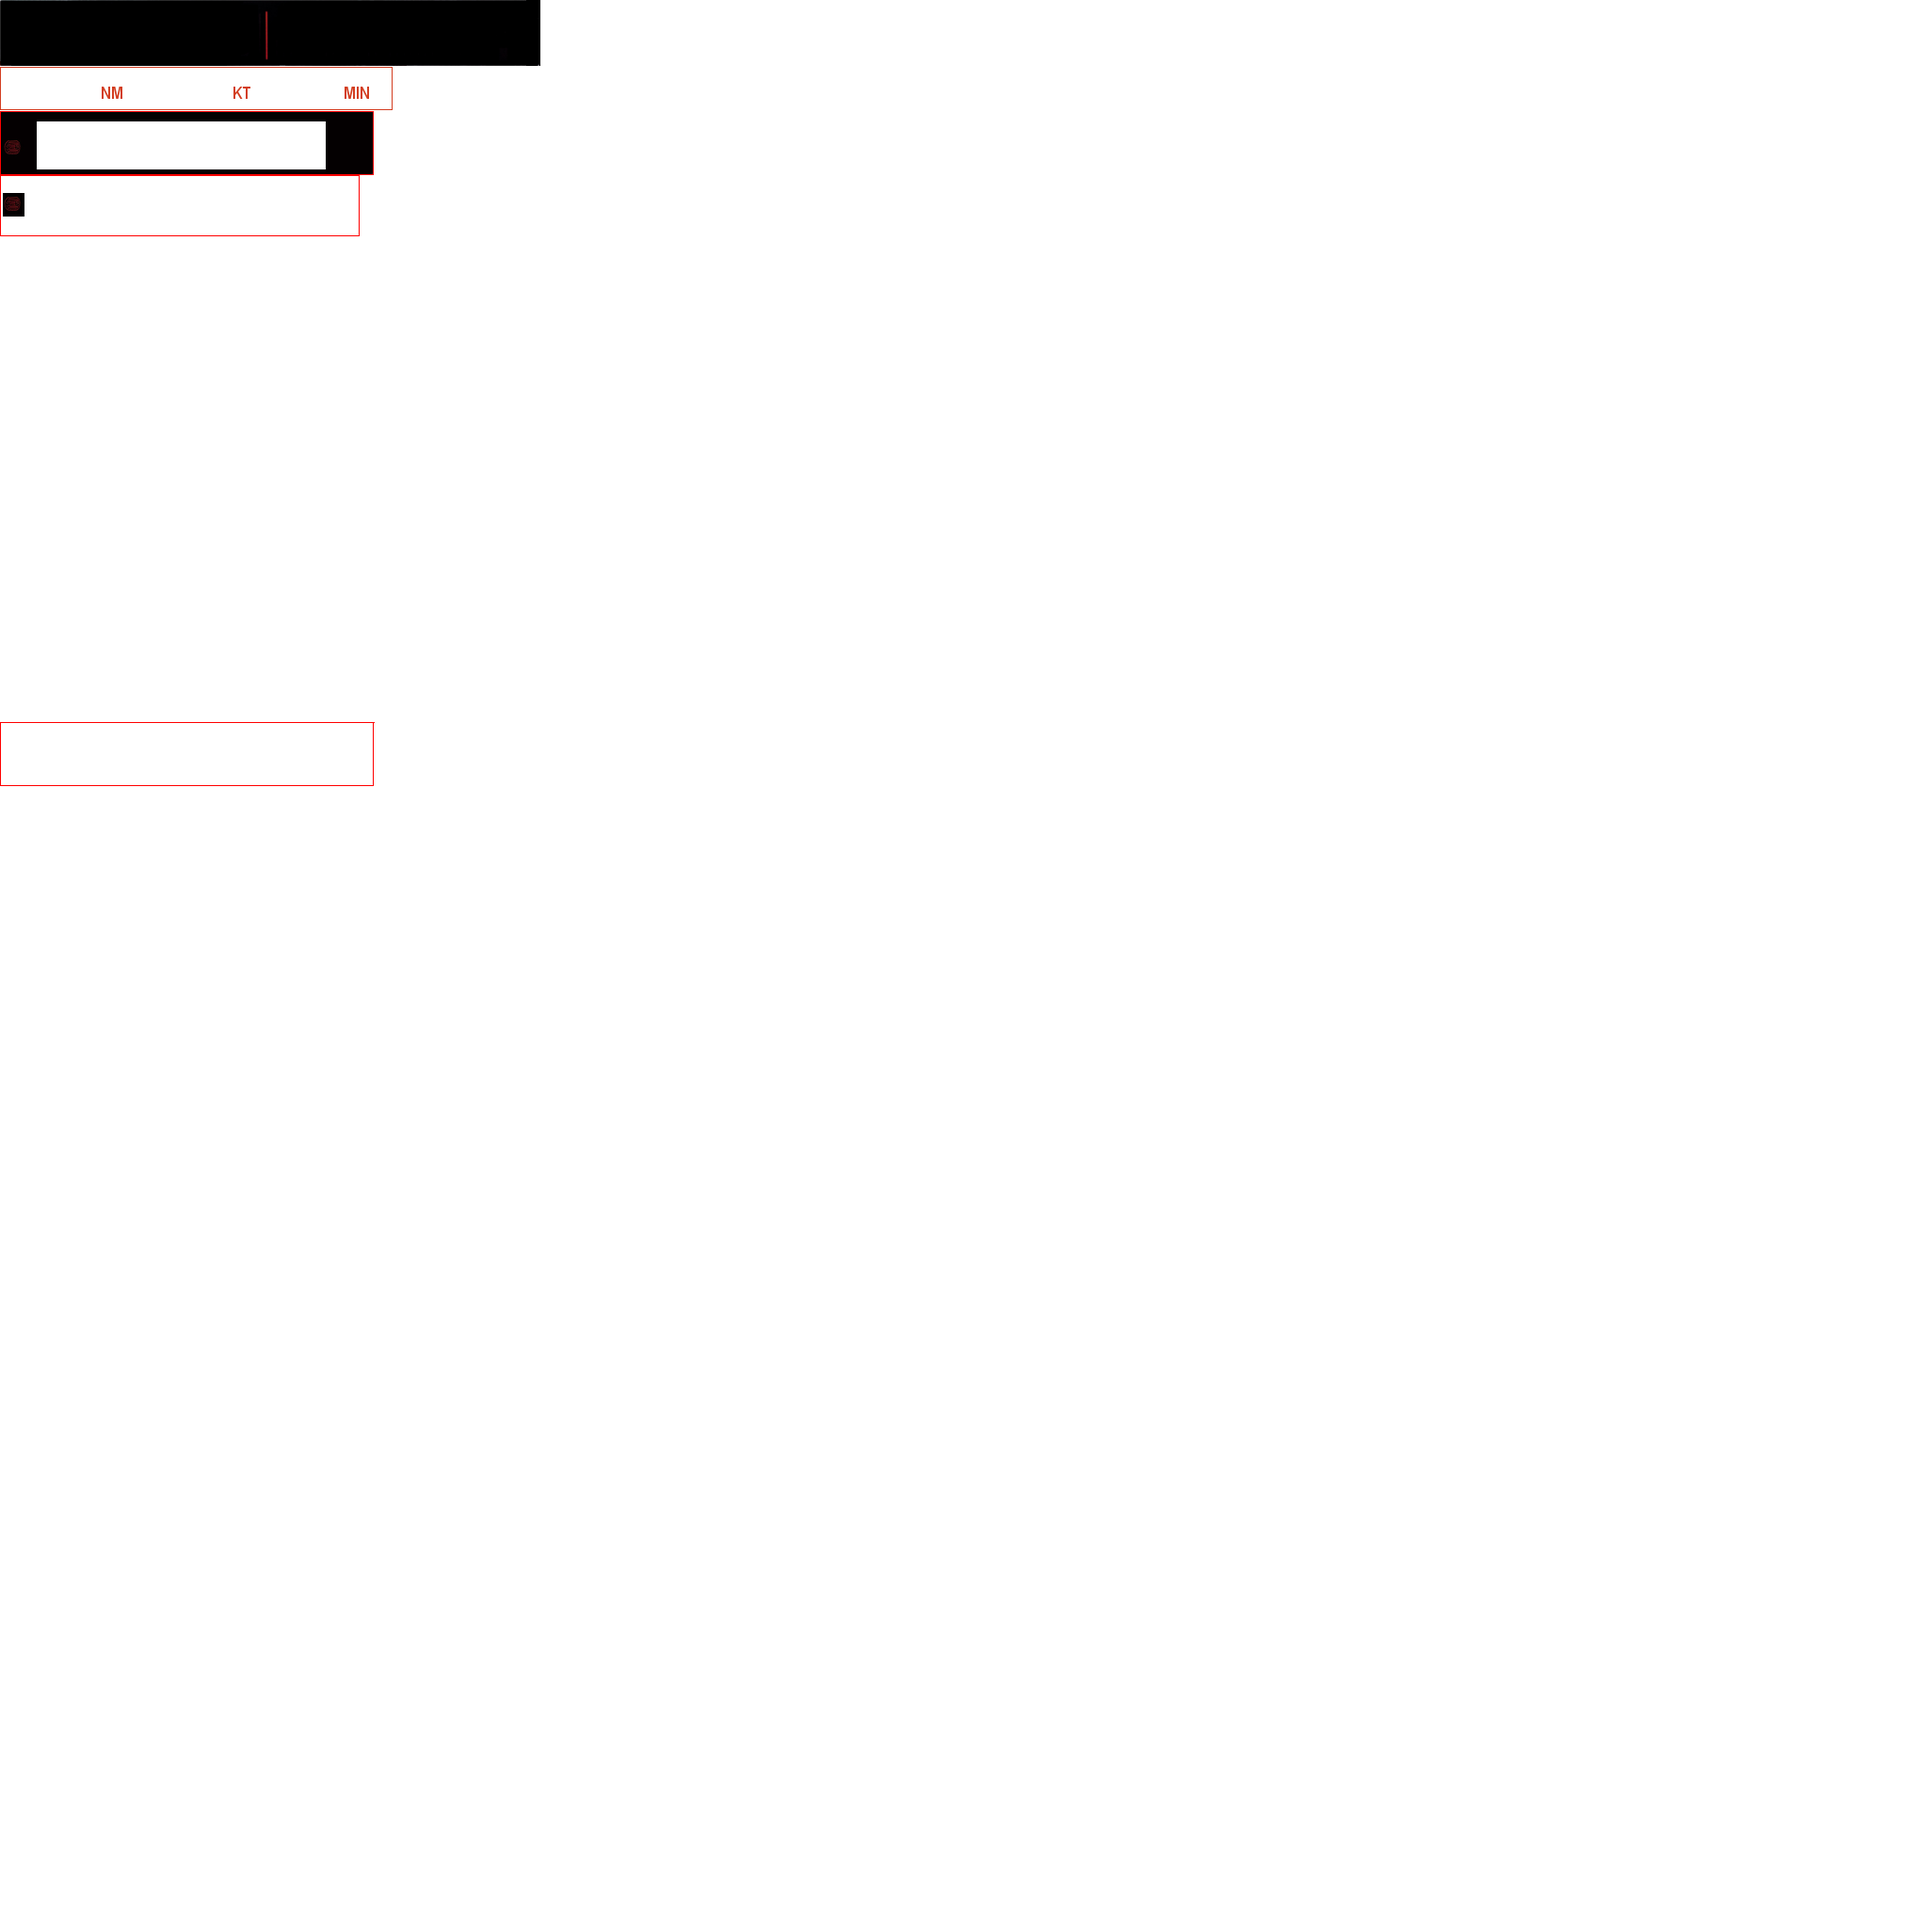
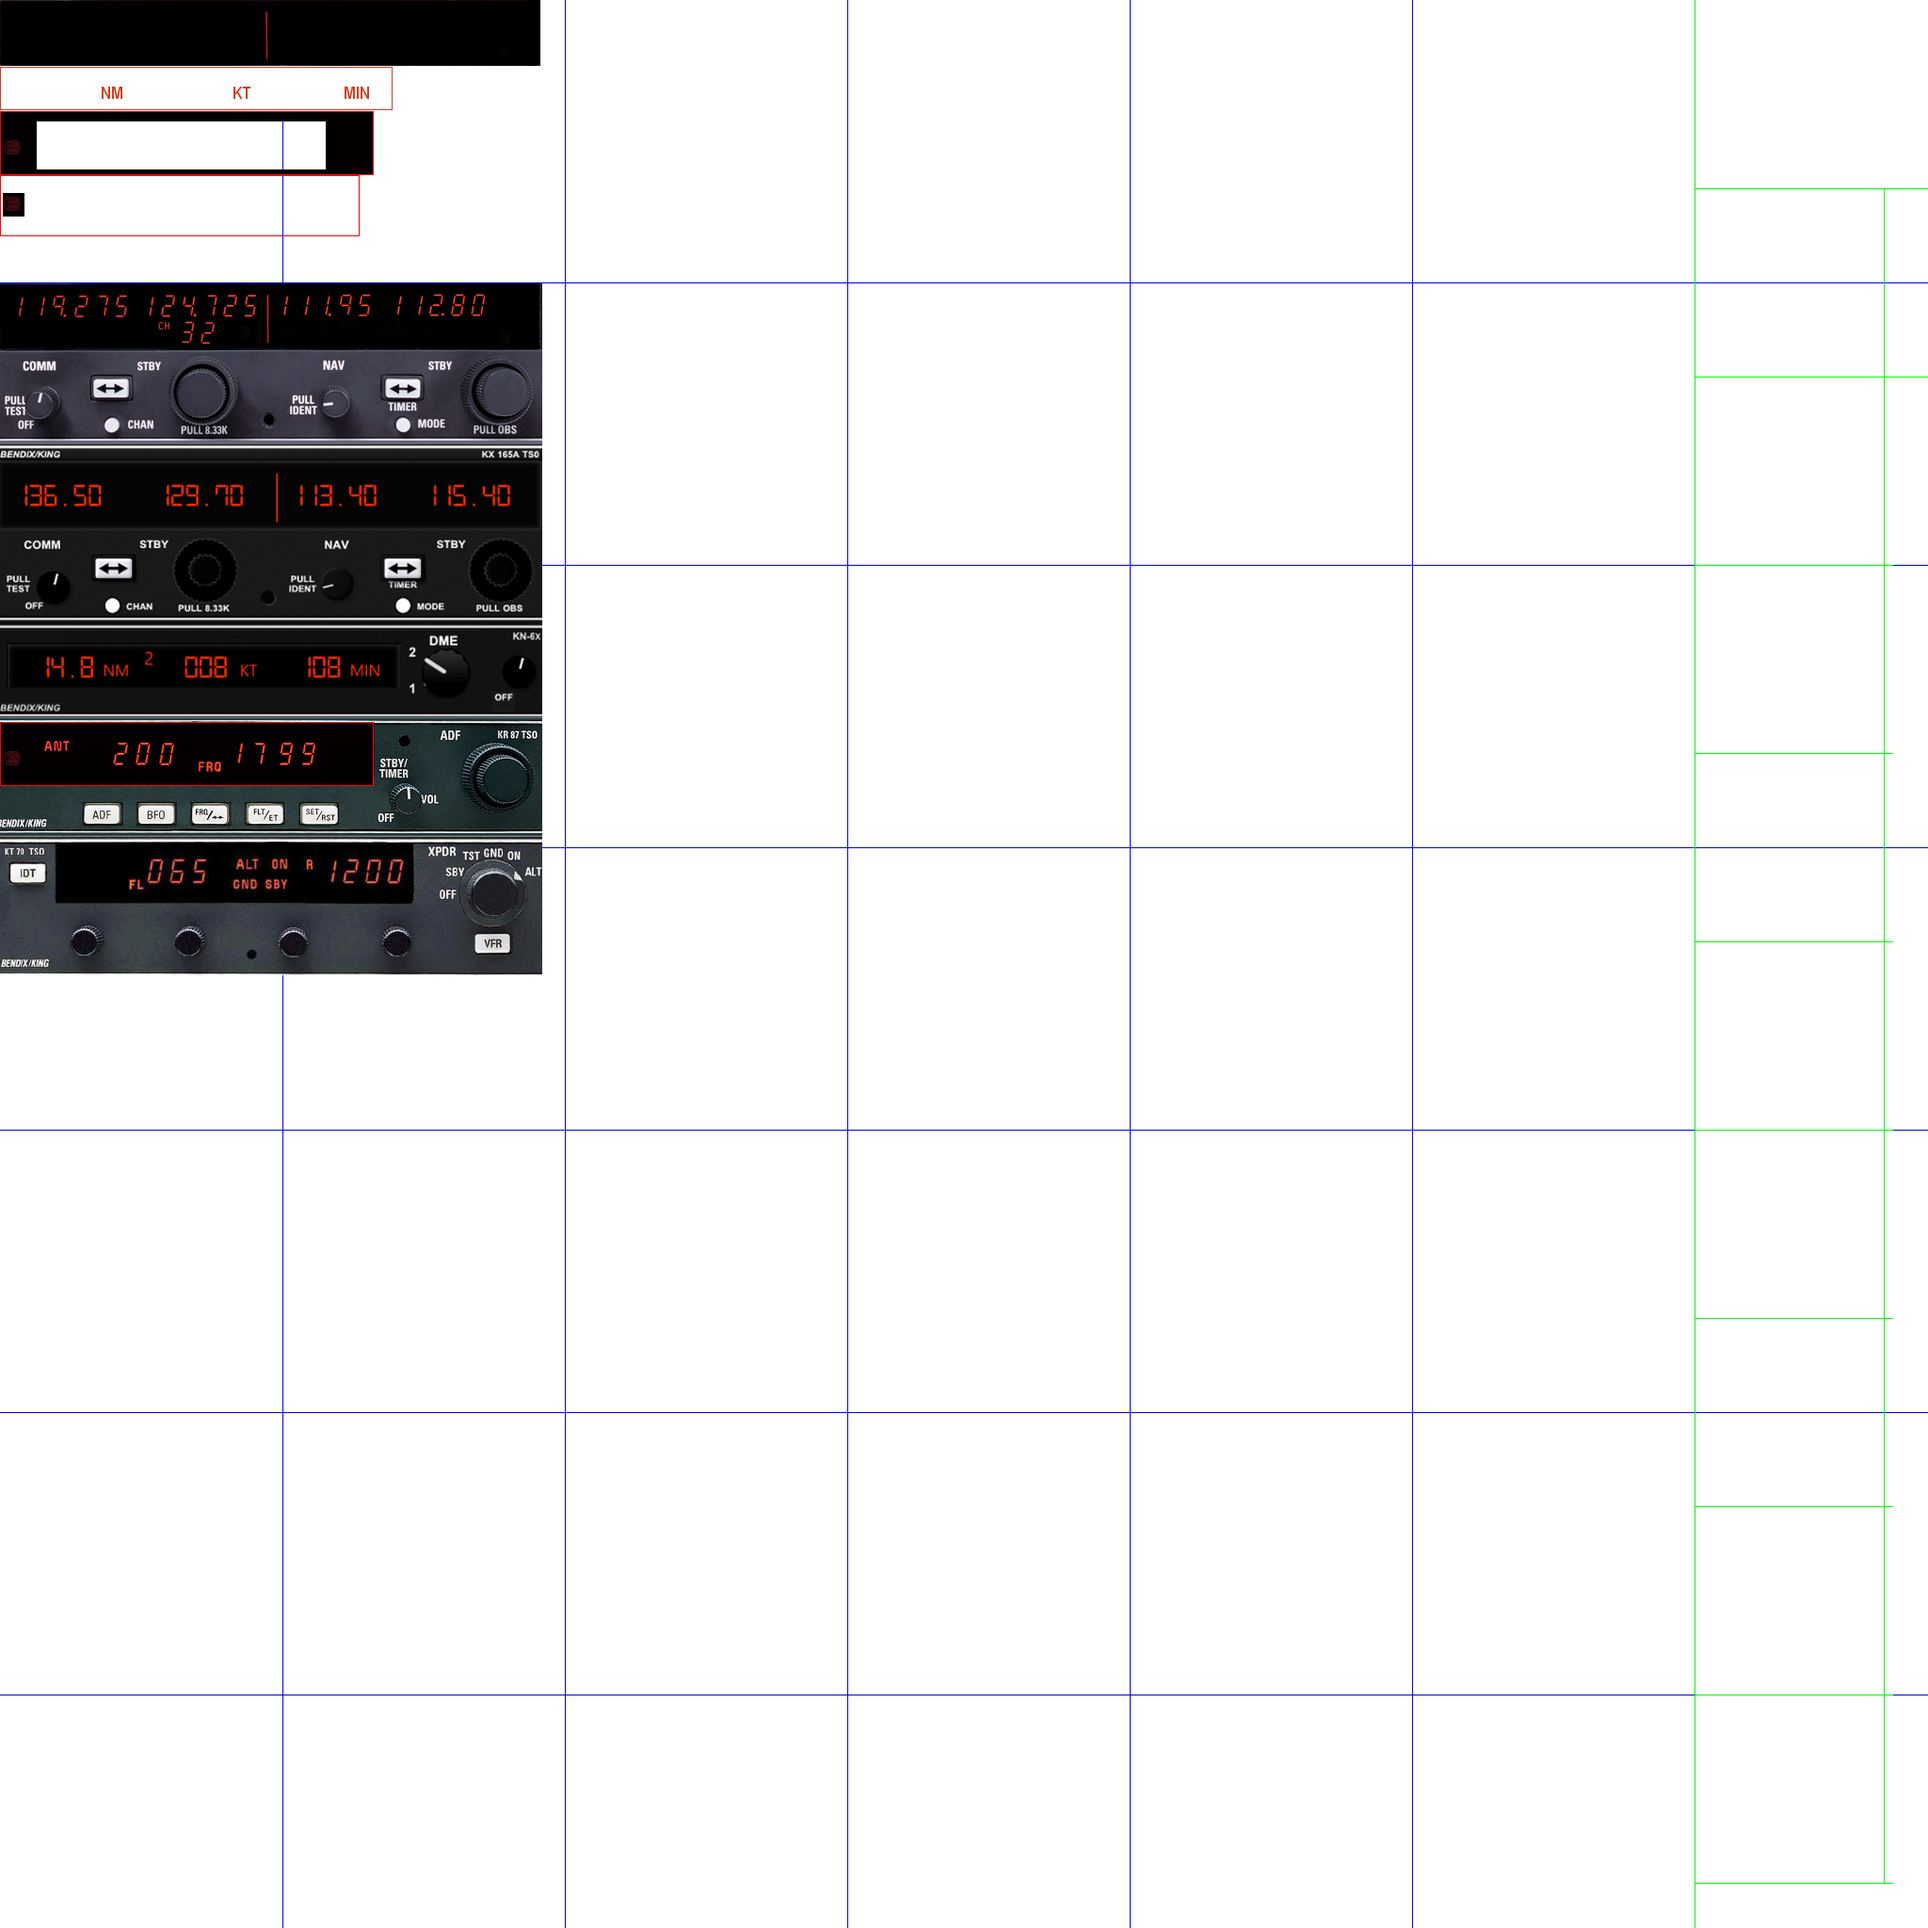
Final enhancements to XPDR and ADF

Changed region(s): [[0.0, 0.125, 0.2812, 0.5312]]

diff --git a/instruments/BendixKing_ADF_KR87.py b/instruments/BendixKing_ADF_KR87.py
@@ -30,10 +30,13 @@ class BK_ADF_KR87(graphics.Container):
 		
 		self.timer_mode = 0 #// 0 = inactive, 1 = flight time, 2 = elapsed time
 		
-		x_ADF_actFrequ 		= 81
-		x_ADF_sbyFrequ 		= 244
-		x_time_left			= x_ADF_sbyFrequ +200
-		x_time_right		= x_time_left + 45
+		x_ADF_actFrequ 		= 105
+		x_ADF_sbyFrequ 		= 285
+		x_ADF_ANT_indicators = 45
+		x_BFO_indicator 	= 177
+		x_FLT_ET_indicators = 355
+		x_time_left			= x_ADF_sbyFrequ - 33
+		x_time_right		= x_time_left + 55
 		ydelta_ind_bottom 	= -3
 		ydelta_ind_top 		= 19
 		y_frequencies 		= -19
@@ -50,13 +53,13 @@ class BK_ADF_KR87(graphics.Container):
 		#-------------------------------------------------------------------------------------------------
 		# ADF Active Frequency text
 		self.ADF_ACT_FREQU_Text = graphics.TextField(fonts.DIGITAL_ITAL_XXLARGE_ORANGE)
-		self.ADF_ACT_FREQU_Text.setTextFormat('{:> 5.0f}')
+		self.ADF_ACT_FREQU_Text.setTextFormat('{:0>3.0f}')
 		self.ADF_ACT_FREQU_Text.setTextDataSource(self.XPlaneDataDispatcher,(101,0))
 		self.addItem(self.ADF_ACT_FREQU_Text, (x_ADF_actFrequ,y_frequencies), False)
 		
 		# ADF standby Frequency text
 		self.ADF_SBY_FREQU_Text = graphics.TextField(fonts.DIGITAL_ITAL_XXLARGE_ORANGE)
-		self.ADF_SBY_FREQU_Text.setTextFormat('{:> 5.0f}')
+		self.ADF_SBY_FREQU_Text.setTextFormat('{:0>3.0f}')
 		self.ADF_SBY_FREQU_Text.setTextDataSource(self.XPlaneDataDispatcher,(313,0))
 		self.addItem(self.ADF_SBY_FREQU_Text, (x_ADF_sbyFrequ,y_frequencies), False)
 		
@@ -93,32 +96,34 @@ class BK_ADF_KR87(graphics.Container):
 		# ADF ANT indicator
 		self.ADF_ANT_Indicator = graphics.TextField(fonts.VERA_13PT_BOLD_ORANGE)
 		self.ADF_ANT_Indicator.setText('ANT')
-		self.addItem(self.ADF_ANT_Indicator, (x_ADF_actFrequ-46,y_frequencies+ydelta_ind_top), False)
+		self.addItem(self.ADF_ANT_Indicator, (x_ADF_ANT_indicators,y_frequencies+ydelta_ind_top), False)
 		
 		# ADF ADF indicator
 		self.ADF_ADF_Indicator = graphics.TextField(fonts.VERA_13PT_BOLD_ORANGE)
 		self.ADF_ADF_Indicator.setText('ADF')
-		self.addItem(self.ADF_ADF_Indicator, (x_ADF_actFrequ-46,y_frequencies+ydelta_ind_bottom), False)
+		self.addItem(self.ADF_ADF_Indicator, (x_ADF_ANT_indicators,y_frequencies+ydelta_ind_bottom), False)
+		
+		#-------
+		# ADF BFO indicator
+		self.ADF_BFO_Indicator = graphics.TextField(fonts.VERA_13PT_BOLD_ORANGE)
+		self.ADF_BFO_Indicator.setText('BFO')
+		self.addItem(self.ADF_BFO_Indicator, (x_BFO_indicator,y_frequencies+ydelta_ind_top), False)
 		
 		# ADF FRQ indicator
 		self.ADF_FRQ_Indicator = graphics.TextField(fonts.VERA_13PT_BOLD_ORANGE)
 		self.ADF_FRQ_Indicator.setText('FRQ')
-		self.addItem(self.ADF_FRQ_Indicator, (x_ADF_actFrequ+124,y_frequencies+ydelta_ind_bottom), False)
+		self.addItem(self.ADF_FRQ_Indicator, (x_BFO_indicator+ 31,y_frequencies+ydelta_ind_bottom), False)
 		
-		# ADF BFO indicator
-		self.ADF_BFO_Indicator = graphics.TextField(fonts.VERA_13PT_BOLD_ORANGE)
-		self.ADF_BFO_Indicator.setText('BFO')
-		self.addItem(self.ADF_BFO_Indicator, (x_ADF_actFrequ+96,y_frequencies+ydelta_ind_top), False)
-		
+		#-------
 		# ADF FLT indicator
 		self.ADF_FLT_Indicator = graphics.TextField(fonts.VERA_13PT_BOLD_ORANGE)
 		self.ADF_FLT_Indicator.setText('FLT')
-		self.addItem(self.ADF_FLT_Indicator, (x_ADF_sbyFrequ+93,y_frequencies+ydelta_ind_top), False)
+		self.addItem(self.ADF_FLT_Indicator, (x_FLT_ET_indicators,y_frequencies+ydelta_ind_top), False)
 		
 		# ADF ET indicator
 		self.ADF_ET_Indicator = graphics.TextField(fonts.VERA_13PT_BOLD_ORANGE)
 		self.ADF_ET_Indicator.setText(' ET')
-		self.addItem(self.ADF_ET_Indicator, (x_ADF_sbyFrequ+93,y_frequencies+ydelta_ind_bottom), False)
+		self.addItem(self.ADF_ET_Indicator, (x_FLT_ET_indicators,y_frequencies+ydelta_ind_bottom), False)
 
 	def XPCmdCallback(self, command):
 		print "ADF handling command: ", command
@@ -183,6 +188,7 @@ class BK_ADF_KR87(graphics.Container):
 			self.ADF_SBY_FREQU_Text.setVisible(False)
 			self.ADF_ANT_Indicator.setVisible(False)
 			self.ADF_ADF_Indicator.setVisible(False)
+			self.ADF_FRQ_Indicator.setVisible(False)
 			self.ADF_BFO_Indicator.setVisible(False)
 			self.ADF_FLT_Indicator.setVisible(False)
 			self.ADF_ET_Indicator.setVisible(False)

diff --git a/instruments/BendixKing_XPDR_KT70.py b/instruments/BendixKing_XPDR_KT70.py
@@ -42,7 +42,7 @@ class BK_XPDR_KT70(graphics.Container):
 		# Flight level label
 		#-------------------------------------------------------------------------------------------------
 		self.XPDR_FL_Text = graphics.TextField(fonts.DIGITAL_ITAL_XXLARGE_ORANGE)
-		self.XPDR_FL_Text.setTextFormat('{:0>3.0f}')
+		self.XPDR_FL_Text.setTextFormat('{:0= 4.0f}')
 		self.XPDR_FL_Text.setTextDataSource(self.XPlaneDataDispatcher,(20,2), conversionFunctions.returnAltitude100sfeet)
 		self.addItem(self.XPDR_FL_Text, (x_flight_level,y_frequencies), False)
 		
@@ -92,6 +92,10 @@ class BK_XPDR_KT70(graphics.Container):
 		transp_mode = self.XPlaneDataDispatcher.getData(319,0) # Transponder mode (off=0,stdby=1,on=2,test=3)
 		transp_light = self.XPlaneDataDispatcher.getData(320,0) # 1.0 = light lit, 0.0 not
 		if transp_mode >= 1.0:
+			if transp_mode != 3.0 : # if we are not in test mode, reset the flight level and code text fields to follow XP values. 
+				self.XPDR_FL_Text.setTextDataSource(self.XPlaneDataDispatcher,(20,2), conversionFunctions.returnAltitude100sfeet)
+				self.XPDR_CODE_Text.setTextDataSource(self.XPlaneDataDispatcher,(318,0))
+			
 			if transp_mode == 1.0 : # Standby. 
 				self.XPDR_R_Indicator.setVisible(False)
 				self.XPDR_BGD.setVisible(True)
@@ -121,9 +125,11 @@ class BK_XPDR_KT70(graphics.Container):
 				self.XPDR_R_Indicator.setVisible(True)
 				self.XPDR_BGD.setVisible(True)
 				self.XPDR_FL_Text.setVisible(True)
+				self.XPDR_FL_Text.setTextDataSource(None, None) # this is to avoid XPlane overriding the test value we will set on next line
 				self.XPDR_FL_Text.setText('-888')
 				
 				self.XPDR_CODE_Text.setVisible(True)
+				self.XPDR_CODE_Text.setTextDataSource(None, None) # this is to avoid XPlane overriding the test value we will set on next line
 				self.XPDR_CODE_Text.setText('8888')
 				
 				self.XPDR_ALT_Indicator.setVisible(True)

diff --git a/lib/graphics/graphicsGL3.py b/lib/graphics/graphicsGL3.py
@@ -785,6 +785,10 @@ class TextField(Container):
 	def __init__(self, font):
 		self.image = font
 	
+	## Sets the text to be displayed (static value). Note this will have no effect if you have set the TextField instance to display an XPlane value with the setTextDataSource method. 
+	# If you want to temporarily display a static text rather than the XPlane value, call setTextDataSource(None, None) first. You will need to call setTextDataSource() again to re enable the XPlane UDP value if required later on.
+	# @param s: The text string to be displayed
+	#
 	def setText(self, s):
 		self.text = s
 	
@@ -830,7 +834,6 @@ class TextField(Container):
 				self.text =  self.textFormat.format(float(XPValue))
 				self.text += self.unitText
 
-			#print "Drawing textfield, text: ", self.text, self.x, self.y
 			#logging.debug("drawing text %s, at x: %s, y %s ", self.text, self.x, self.y )
 			self.image.draw(self.text,self.x,self.y)
 
